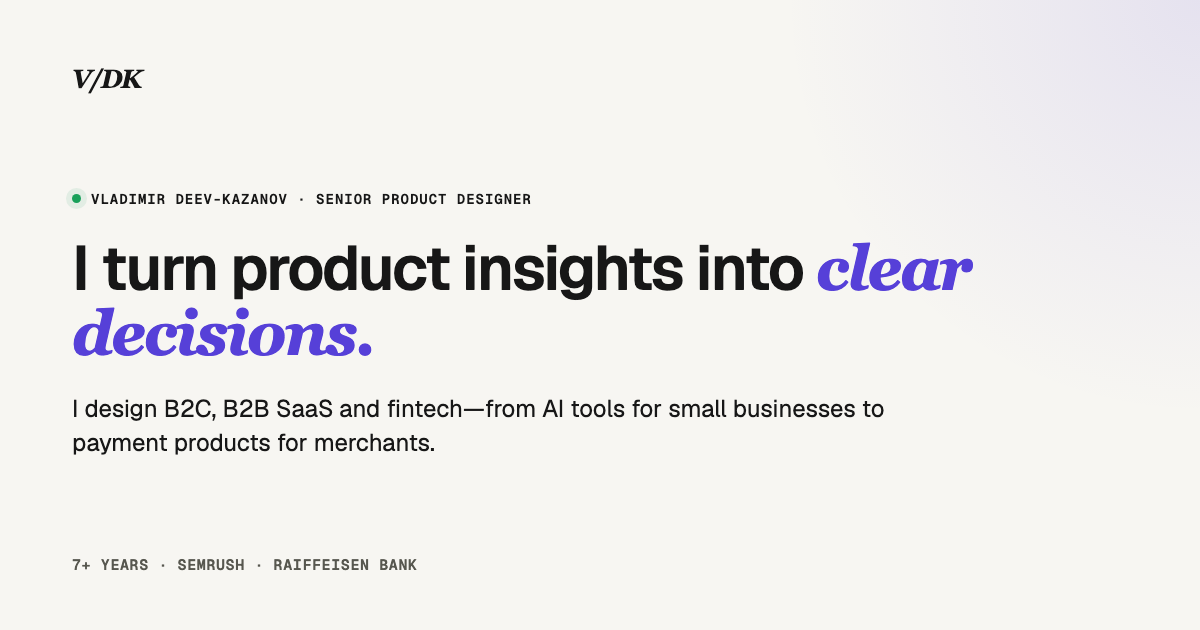
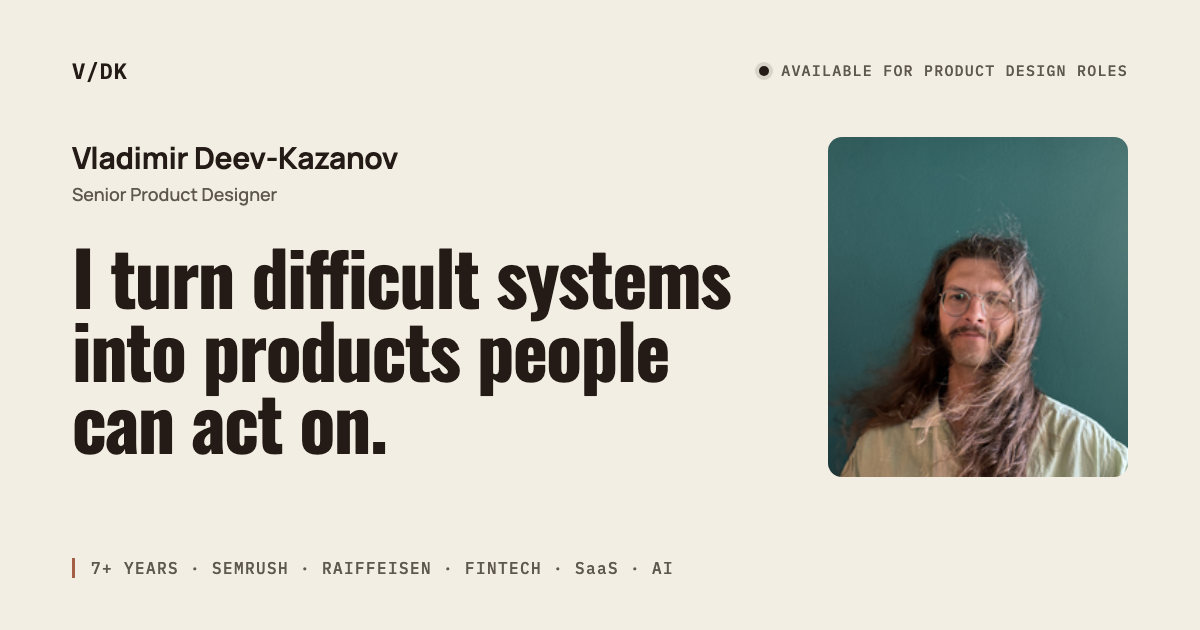
Refresh link-preview card to match the current homepage hero

diff --git a/app/layout.tsx b/app/layout.tsx
@@ -39,8 +39,8 @@ export const metadata: Metadata = {
     apple: [{ url: "/apple-touch-icon.png?v=1", sizes: "180x180", type: "image/png" }],
     other: [{ rel: "mask-icon", url: "/mask-icon.svg?v=1", color: "#171717" }],
   },
-  openGraph: { title: "Vladimir Deev-Kazanov — Product Designer", description: "I turn product insights into clear decisions.", images: [{ url: "/og.png", width: 1200, height: 630 }] },
-  twitter: { card: "summary_large_image", title: "Vladimir Deev-Kazanov — Product Designer", description: "I turn product insights into clear decisions.", images: ["/og.png"] },
+  openGraph: { title: "Vladimir Deev-Kazanov — Product Designer", description: "I turn difficult systems into products people can act on.", images: [{ url: "/og.png?v=2", width: 1200, height: 630 }] },
+  twitter: { card: "summary_large_image", title: "Vladimir Deev-Kazanov — Product Designer", description: "I turn difficult systems into products people can act on.", images: ["/og.png?v=2"] },
 };
 
 export const viewport: Viewport = {
